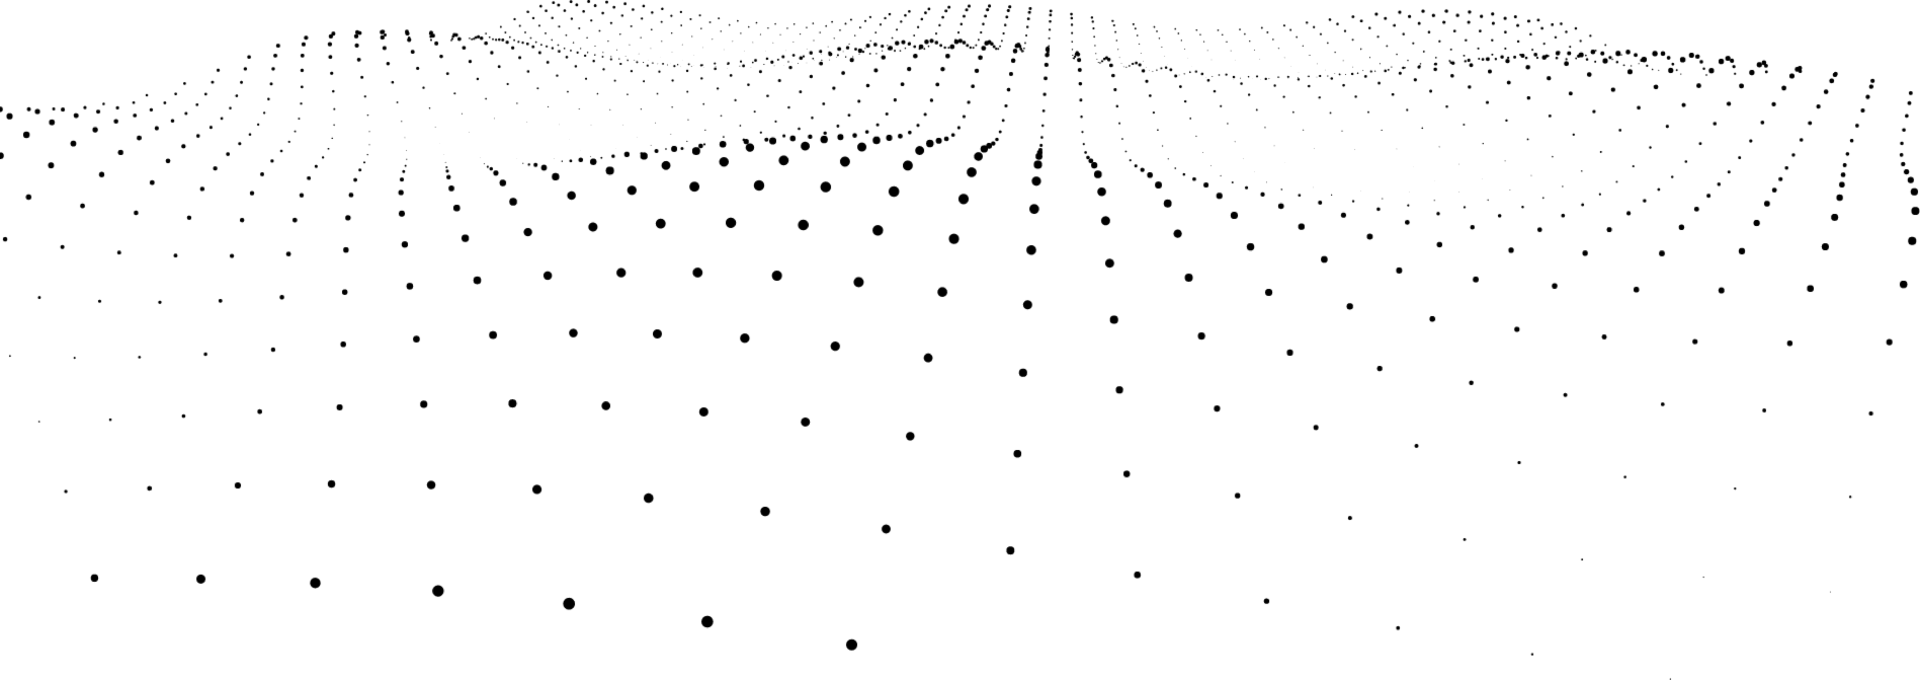
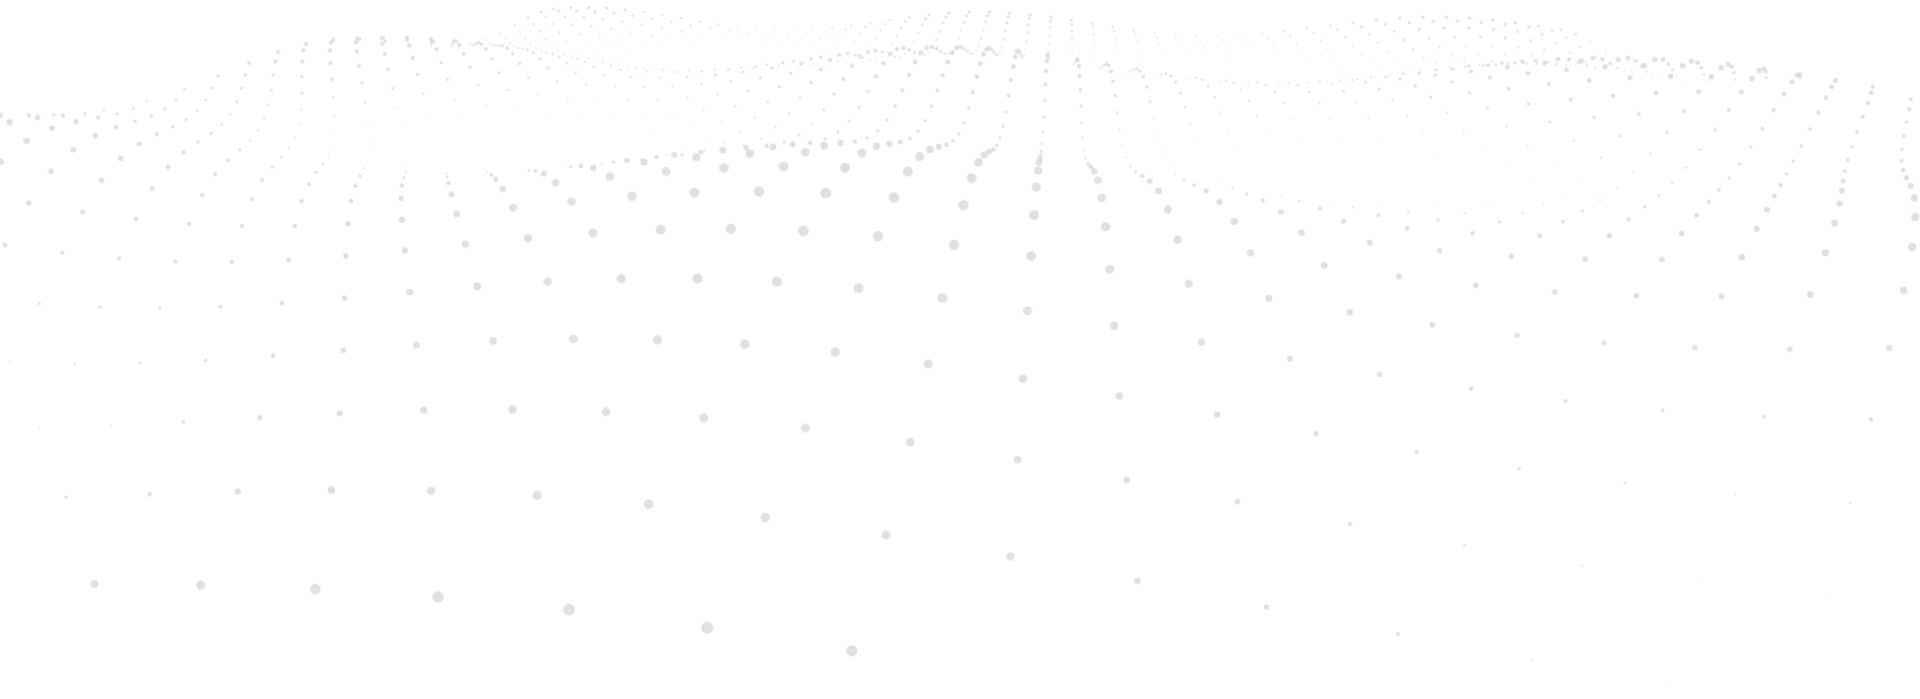
fix: 更换背景图

diff --git a/src/views/trace/includes/trace-form.vue b/src/views/trace/includes/trace-form.vue
@@ -27,10 +27,10 @@
             placeholder="To guide the discussion, please give us specific details" />
         </n-form-item>
         <n-form-item label="Name">
-          <n-input v-model:value="form.name" placeholder="Your name" />
+          <n-input v-model:value="form.name" maxlength="200" placeholder="Your name" />
         </n-form-item>
         <n-form-item label="Email" path="email">
-          <n-input v-model:value="form.email" placeholder="Your email address" />
+          <n-input v-model:value="form.email" maxlength="200" placeholder="Your email address" />
         </n-form-item>
         <n-form-item label="Verification Code" path="code">
           <verify-code-input
@@ -47,7 +47,6 @@
         @click="submit">
         Submit
       </n-button>
-      <img src="@/assets/img/trace/trace-form-right.png" class="right-img" alt="" />
     </div>
   </div>
 </template>
@@ -111,6 +110,7 @@
         codeRef.value.refreshCode()
         console.error(err)
       })
+      .finally(codeRef.value.refreshCode)
   }
   //  type?: number
 </script>

diff --git a/src/views/trace/index.vue b/src/views/trace/index.vue
@@ -10,7 +10,7 @@
         <span class="text-[36px] ml-[20px]">$10B+</span>
         <span class="text-[24px] ml-[20px]">Recovered for 1,000+ clients</span>
       </div>
-      <be-button custom-class="contact-btn h-btn-txt-black " size="large" @click="openDialog">
+      <be-button custom-class="contact-btn h-btn-txt-black " size="large" @click="toForm">
         <span class="font-format text-2xl leading-loose">
           {{ $t('lang.contactBtn') }}
         </span>
@@ -148,12 +148,10 @@
 
 <script setup lang="ts">
   import TraceForm from './includes/trace-form.vue'
-  import { useEventBus } from '@vueuse/core'
   import { scale } from './scale'
   import { onMounted, onUnmounted } from 'vue'
-  const bus = useEventBus<string>('openQuote')
-  const openDialog = (): void => {
-    bus.emit('true')
+  const toForm = (): void => {
+    document.querySelector('.trace-form').scrollIntoView({ behavior: 'smooth', block: 'center' })
   }
   onMounted(() => {
     const unbind = scale(

diff --git a/src/components/request-quote-dialog.vue b/src/components/request-quote-dialog.vue
@@ -28,7 +28,7 @@
             <p class="label font-format">
               {{ $t('lang.quoteDialog.yourName') }}
             </p>
-            <n-input v-model:value="formData.name" size="large" />
+            <n-input v-model:value="formData.name" maxlength="200" size="large" />
           </div>
         </div>
         <div class="flex flex-col w-full mb-8 md:mb-4 sm:mb-4">
@@ -36,7 +36,7 @@
             {{ $t('lang.quoteDialog.email') }}
             <span style="color: red">*</span>
           </p>
-          <n-input v-model:value="formData.email" size="large" />
+          <n-input v-model:value="formData.email" maxlength="200" size="large" />
         </div>
         <!--<div class="flex flex-col w-full mb-8 md:mb-4 sm:mb-4">
             <p class="label font-format">{{ $t('lang.quoteDialog.phone') }}</p>
